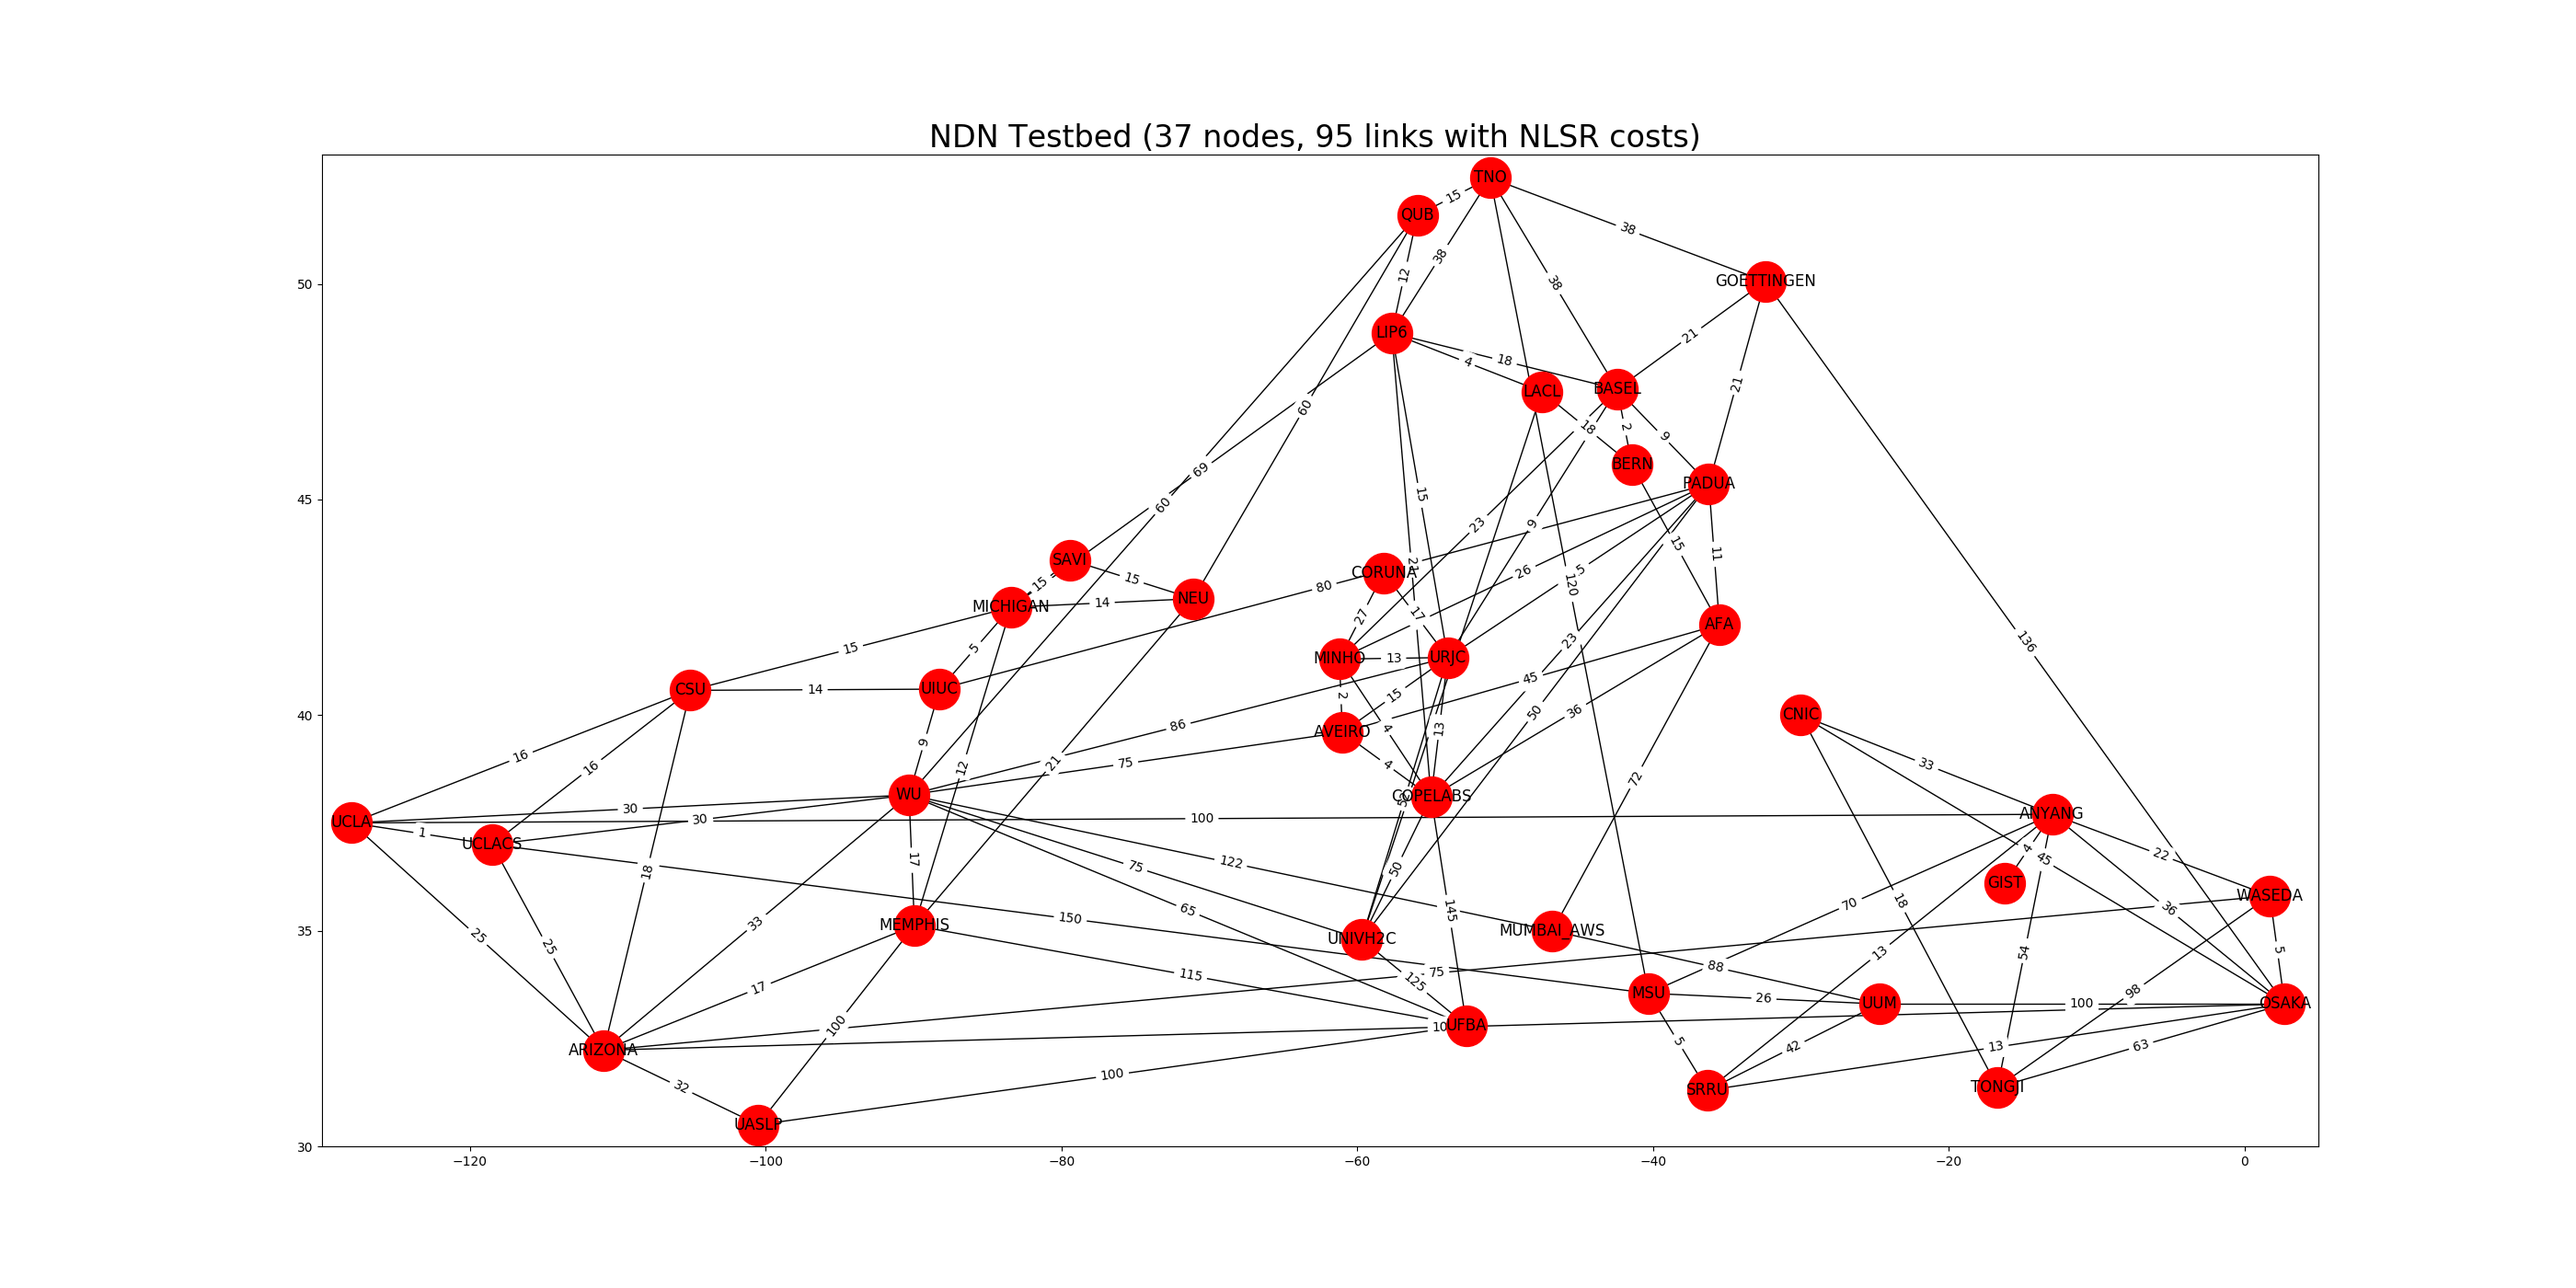
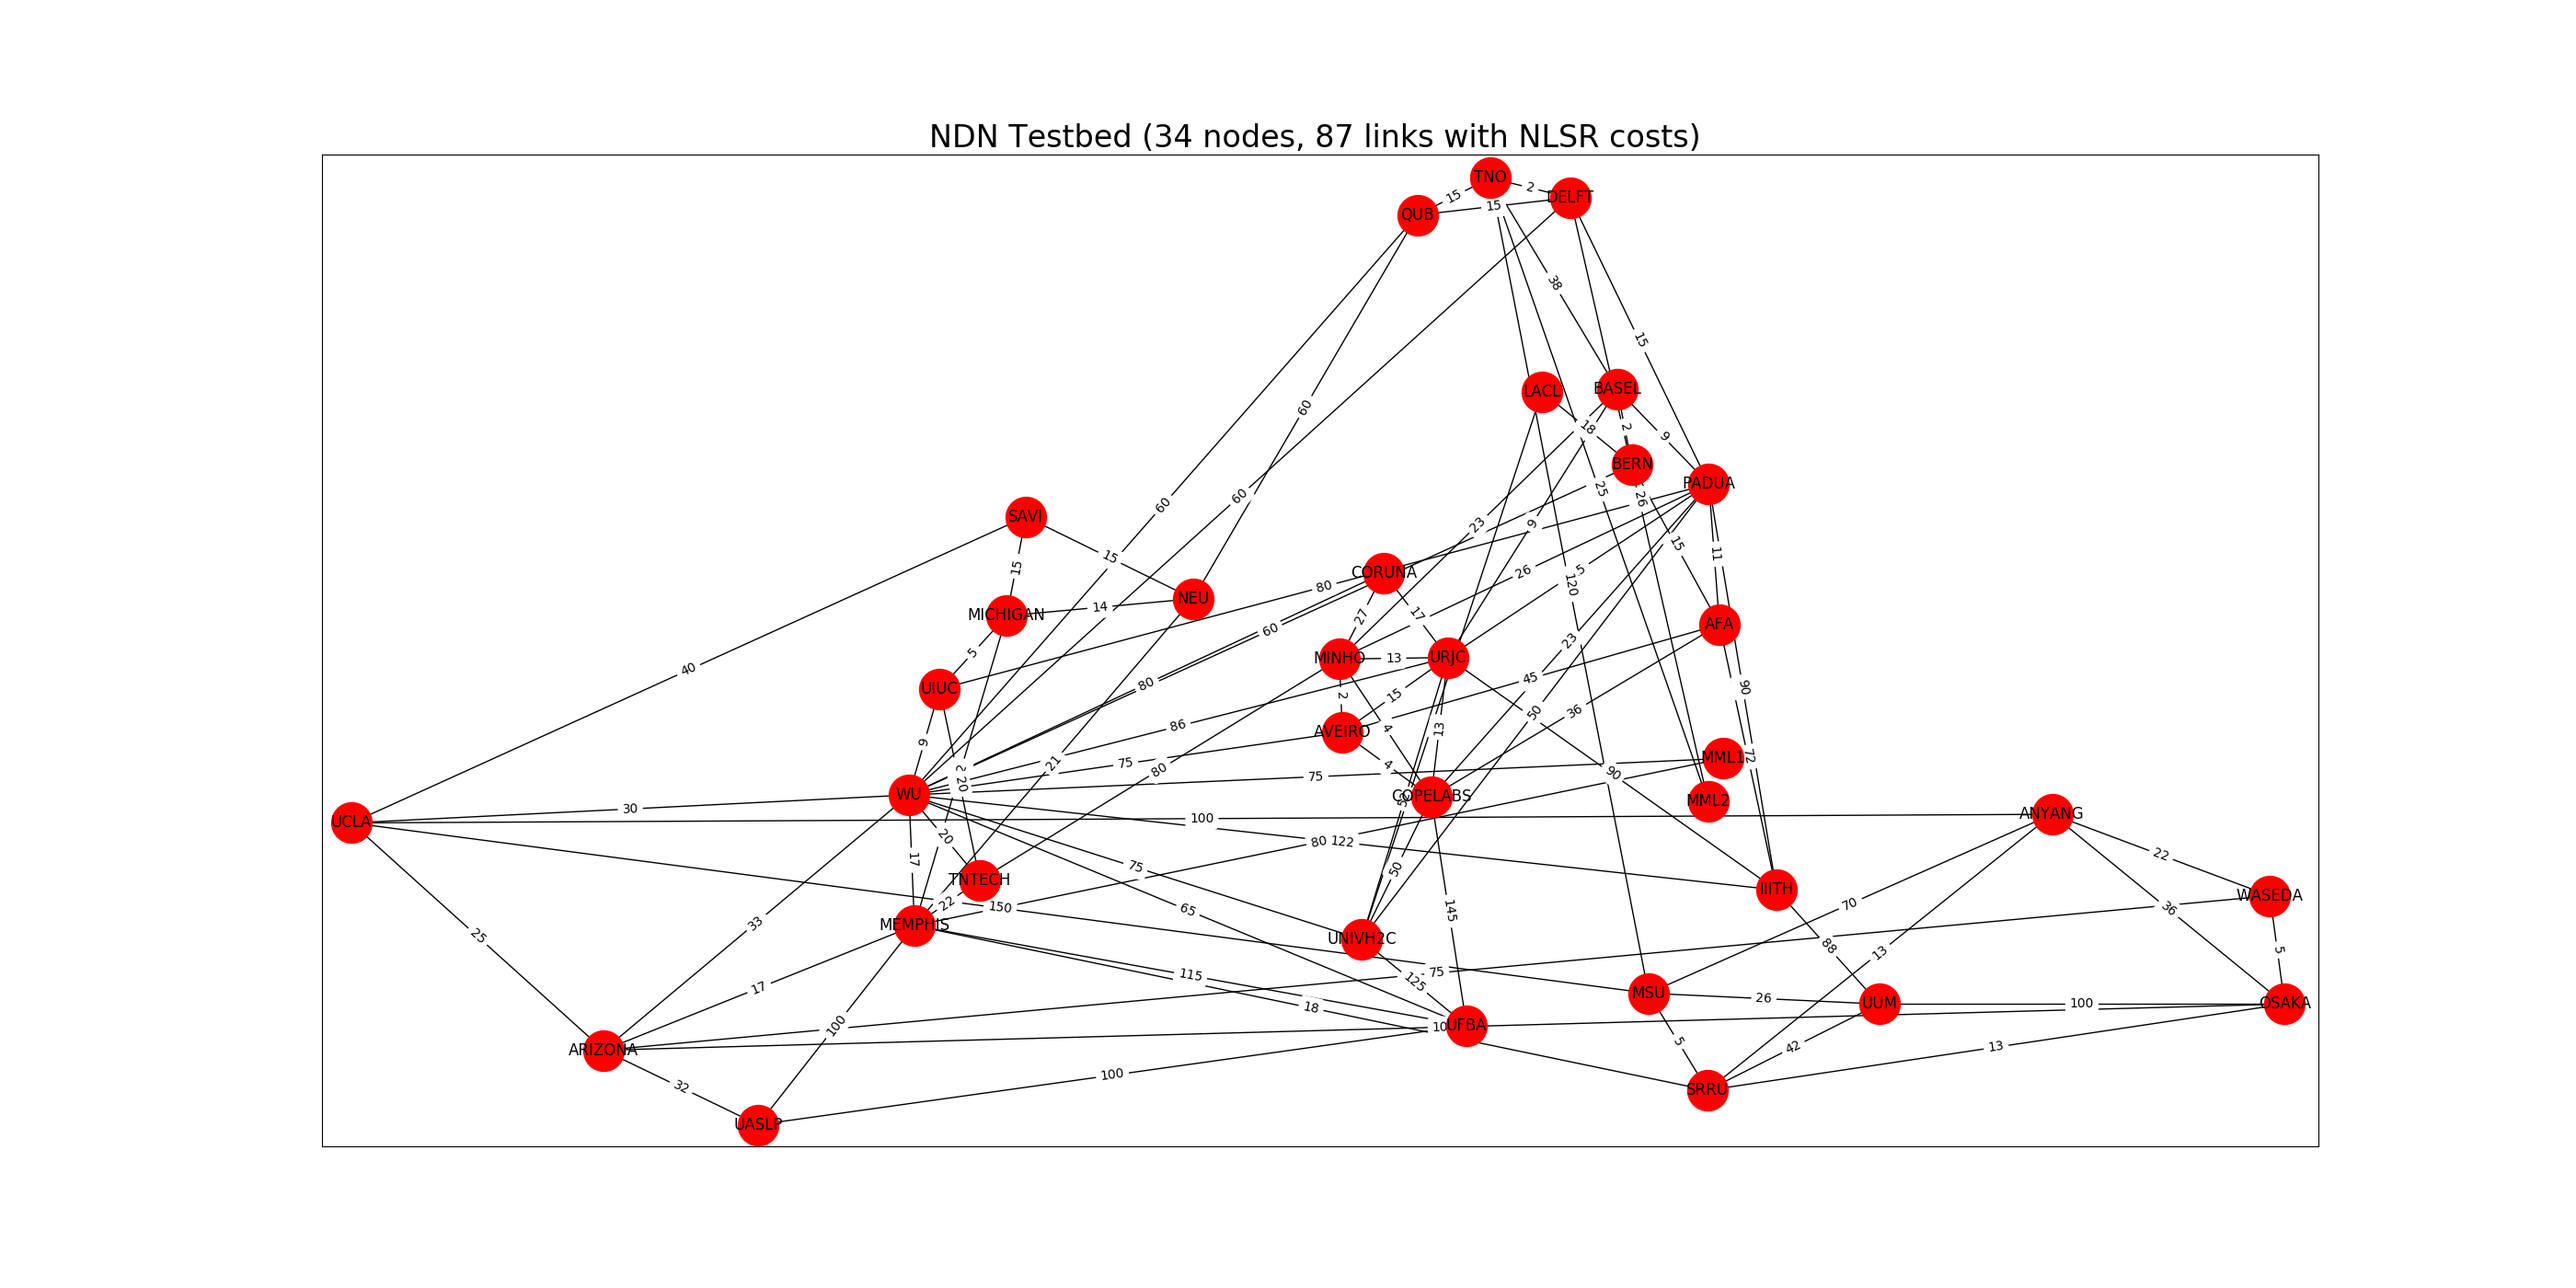
latest

diff --git a/ndn_prefix/tbs_ndnx.py b/ndn_prefix/tbs_ndnx.py
@@ -167,7 +167,7 @@ def is_testbed_prefix(prefix):
 	#	return False
 	#if(re.search("(/ndn/edu/ucla/%40GUEST\.*)", prefix) != None):
 	#	return False
-	if(re.search("(\.edu)|(\.org)|(\.com)|(\.ca)|(\.cn)|(\.es)|(\.ch)|(\.uk)|(\.de)|(\.fr)|(\.id)|(\.br)|(\.mx)|(\.at)|(\.jp)|(\.ma)|(\.nl)|(\.th)|(\.gov)|(\.no)|(\.kr)|(\.it)|(\.pt)|(\.aws)", prefix) != None):
+	if(re.search("(\.edu)|(\.org)|(\.com)|(\.ca)|(\.cn)|(\.es)|(\.ch)|(\.uk)|(\.de)|(\.in)|(\.fr)|(\.id)|(\.br)|(\.mx)|(\.at)|(\.jp)|(\.ma)|(\.nl)|(\.th)|(\.gov)|(\.no)|(\.kr)|(\.it)|(\.pt)|(\.aws)", prefix) != None):
 		config.valid_prefix[prefix] = get_domain(prefix)
                 print "is_testbed_prefix( TRUE )"
 		return True
@@ -185,7 +185,7 @@ def get_domain(prefix):
         #        print "get_domain(" + prefix + ") returning false: "
 	#	return "" #eval to false
 
-	if(re.search("ndn:/.*((edu)|(org)|(com)|(ca)|(cn)|(es)|(ch)|(uk)|(no)|(de)|(kr)|(it)|(id)|(br)|(mx)|(at)|(jp)|(ma)|(nl)|(th)|(gov)|(fr)|(pt)|(aws))", prefix) == None):
+	if(re.search("ndn:/.*((edu)|(org)|(com)|(ca)|(cn)|(es)|(ch)|(uk)|(no)|(de)|(kr)|(it)|(id)|(br)|(mx)|(at)|(jp)|(ma)|(nl)|(th)|(gov)|(in)|(fr)|(pt)|(aws))", prefix) == None):
                 #print "get_domain(" + prefix + ") returning false: "
 		return "" #eval to false
 
@@ -196,7 +196,7 @@ def get_domain(prefix):
 	#removes ndn:/
 	#prime = re.search("ndn:/.*((\.edu)|(\.org)|(\.com)|(\.cn)|(\.uk))", prefix).group(0)[6:]
 	#prime = re.search("ndn:/.*((\.edu)|(\.org)|(\.com)|(\.cn)|(\.uk))", prefix).group(0)[5:]
-	prime = re.search("ndn:/.*((edu)|(org)|(com)|(ca)|(cn)|(es)|(ch)|(uk)|(no)|(kr)|(it)|(de)|(id)|(br)|(mx)|(at)|(jp)|(ma)|(nl)|(th)|(gov)|(fr)|(pt)|(aws)).*", prefix).group(0)[5:]
+	prime = re.search("ndn:/.*((edu)|(org)|(com)|(ca)|(cn)|(es)|(ch)|(uk)|(no)|(kr)|(it)|(de)|(id)|(br)|(mx)|(at)|(jp)|(ma)|(nl)|(th)|(gov)|(in)|(fr)|(pt)|(aws)).*", prefix).group(0)[5:]
         #print "get_domain(" + prefix + ") prime: " + prime
 	#removes ndn/
 	dprime = re.search("ndn/.*", prime)
@@ -225,12 +225,12 @@ def get_all_xml(source_url, output_folder, master_xml_list, wait):
 		#wget try once, time out after 5 seconds, quite(no output), background, specify output file
 		#use n(xml_link, domain, name abbr)'s name abbr as temp file name.
 		temp_filename = node_tuple[2]
-		p = subprocess.Popen(["wget","--no-check-certificate", "-t 2","-T 5","-q","-b","-O",output_folder+temp_filename,node_tuple[0]], stdout=subprocess.PIPE)
-                print "wget --no-check-certificate -t 2 -T 5 -q -b -O " + output_folder + temp_filename + " " + node_tuple[0] + " "
+		p = subprocess.Popen(["wget","--no-check-certificate", "-t 2","-T 10","-q","-b","-O",output_folder+temp_filename,node_tuple[0]], stdout=subprocess.PIPE)
+                print "wget --no-check-certificate -t 2 -T 10 -q -b -O " + output_folder + temp_filename + " " + node_tuple[0] + " "
 		#split_node_tuple0 = node_tuple[0].split("?") 
 		#versions_file = split_node_tuple0[0] + "/versions.txt"
 		#print "attempting to wget " + versions_file + " and put it here " + versions_folder + temp_filename
-		#q = subprocess.Popen(["wget","-d","-t 2","-T 5","-q","-O",versions_folder+temp_filename,versions_file], stdout=subprocess.PIPE)
+		#q = subprocess.Popen(["wget","-d","-t 2","-T 10","-q","-O",versions_folder+temp_filename,versions_file], stdout=subprocess.PIPE)
 	#wait for wait seconds for xml to come back
 	time.sleep(10)
 	for node_tuple in source_url:
@@ -247,8 +247,8 @@ def get_all_xml(source_url, output_folder, master_xml_list, wait):
                                 xml_file.close()
 		                temp_filename = node_tuple[2]
                                 # wait a few seconds first?
-		                p = subprocess.Popen(["wget","-d","-t 2","-T 5","-q","-O",output_folder+temp_filename,node_tuple[0]], stdout=subprocess.PIPE)
-                                print "Second Attempt(foreground with debug): wget -d -t 2 -T 5 -q -O " + output_folder + temp_filename + " " + node_tuple[0] + " "
+		                p = subprocess.Popen(["wget","-d","-t 2","-T 10","-q","-O",output_folder+temp_filename,node_tuple[0]], stdout=subprocess.PIPE)
+                                print "Second Attempt(foreground with debug): wget -d -t 2 -T 10 -q -O " + output_folder + temp_filename + " " + node_tuple[0] + " "
 	                        time.sleep(10)
 			        xml_file = open(output_folder+node_tuple[2],'r')
 			        for line in xml_file:
@@ -263,8 +263,8 @@ def get_all_xml(source_url, output_folder, master_xml_list, wait):
 				split_node_tuple0 = node_tuple[0].split("?") 
 				versions_file = split_node_tuple0[0] + "/versions.txt"
 				#print "attempting to wget " + versions_file + " and put it here " + versions_folder + temp_filename
-				p = subprocess.Popen(["wget","--no-check-certificate","-d","-t 2","-T 5","-q","-O",versions_folder+temp_filename,versions_file], stdout=subprocess.PIPE)
-                                print "wget --no-check-certificate -t 2 -T 5 -q -b -O " + versions_folder + temp_filename + " " + versions_file + " "
+				p = subprocess.Popen(["wget","--no-check-certificate","-d","-t 2","-T 10","-q","-O",versions_folder+temp_filename,versions_file], stdout=subprocess.PIPE)
+                                print "wget --no-check-certificate -t 2 -T 10 -q -b -O " + versions_folder + temp_filename + " " + versions_file + " "
 			master_xml_list.append(out)
 			versions_file_list.append(versions_folder+temp_filename)
 		except IOError as e:
@@ -277,7 +277,7 @@ def get_all_xml(source_url, output_folder, master_xml_list, wait):
 def get_fentry(xml_string):
 	#???global xml_list
 	fentry_list = []
-	#p = subprocess.Popen(["wget","-t 1","-T 5","-q","-O", "-",xml_link], stdout=subprocess.PIPE)
+	#p = subprocess.Popen(["wget","-t 1","-T 10","-q","-O", "-",xml_link], stdout=subprocess.PIPE)
 	#exec shell command and puts it to out
 	#out, err = p.communicate()
 	#append the xml obtained for future uses.
@@ -499,6 +499,10 @@ def gen_prefix_status_description():
 <font size="3" face="arial">Notes on current (March 13, 2019) status: A bunch of site certs need updating. Things will be bumpy for a while today.. <br></font>
 <font size="3" face="arial">Notes on current (April 7, 2019) status: We will be removing some long dormant sites. <br></font>
 <font size="3" face="arial">Notes on current (June 16, 2020) status: A 'New NFD Status' line has been added. . <br></font>
+<font size="3" face="arial">Notes on current (April 23, 2021) status: UCLACS (spurs.cs.ucla.edu) removed from Testbed. <br></font>
+<font size="3" face="arial">Notes on current (May 7, 2021) status: Added a link near the bottom of this page to a geographically accurate image of the Testbed topology. <br></font>
+<font size="3" face="arial">Notes on current (Nov 1, 2021) status: In an effort to stay more up to date, we are going to start experimenting with installing NDN packages from the nightly build repo supported by Junxiao. <br></font>
+<font size="3" face="arial">Notes on current (Nov 17, 2021) status: Having another go at this, this week: In an effort to stay more up to date, we are going to start experimenting with installing NDN packages from the nightly build repo supported by Junxiao. <br></font>
 <br>
 
 """
@@ -990,6 +994,10 @@ def fes_html_gen(all_prefix):
 	#html_code += "<div><input id=\"b4\" type=\"button\" value=\"Show Topology\" style=\"width: 250px\" onclick=\"changeTableStatus(this)\"/></div>"
 	#html_code += "\n<div id=\"topo\" class=\"hidden\">\n"
 	html_code += "<br />"
+	html_code += "<br />"
+	html_code += "<br />"
+        html_code += "<DT> <A HREF=\"http://ndndemo.arl.wustl.edu/topology2.png\">Click here for a Geographically accurate topology image</A>"
+        html_code += "\n"
 	html_code += "<br />"
 	#html_code += "<img border=\"0\" src=\"topology.png\" alt = \"testbed\" width=\"1600\" height=\"800\"/></div>\n"
 	html_code += "<img border=\"0\" src=\"topology.png\" alt = \"testbed\" width=\"2400\" height=\"1200\"/></div>\n"

diff --git a/ndn_prefix/NDN_nx.py b/ndn_prefix/NDN_nx.py
@@ -185,6 +185,9 @@ def NDN_graph():
         if node == "MSU":
           y = y + 16.25
           x = x - 4
+        if node == "IIITH":
+          y = y + 18.5
+          x = x - 110
         if node == "MUMBAI_AWS":
           y = y + 16
           x = x - 120
